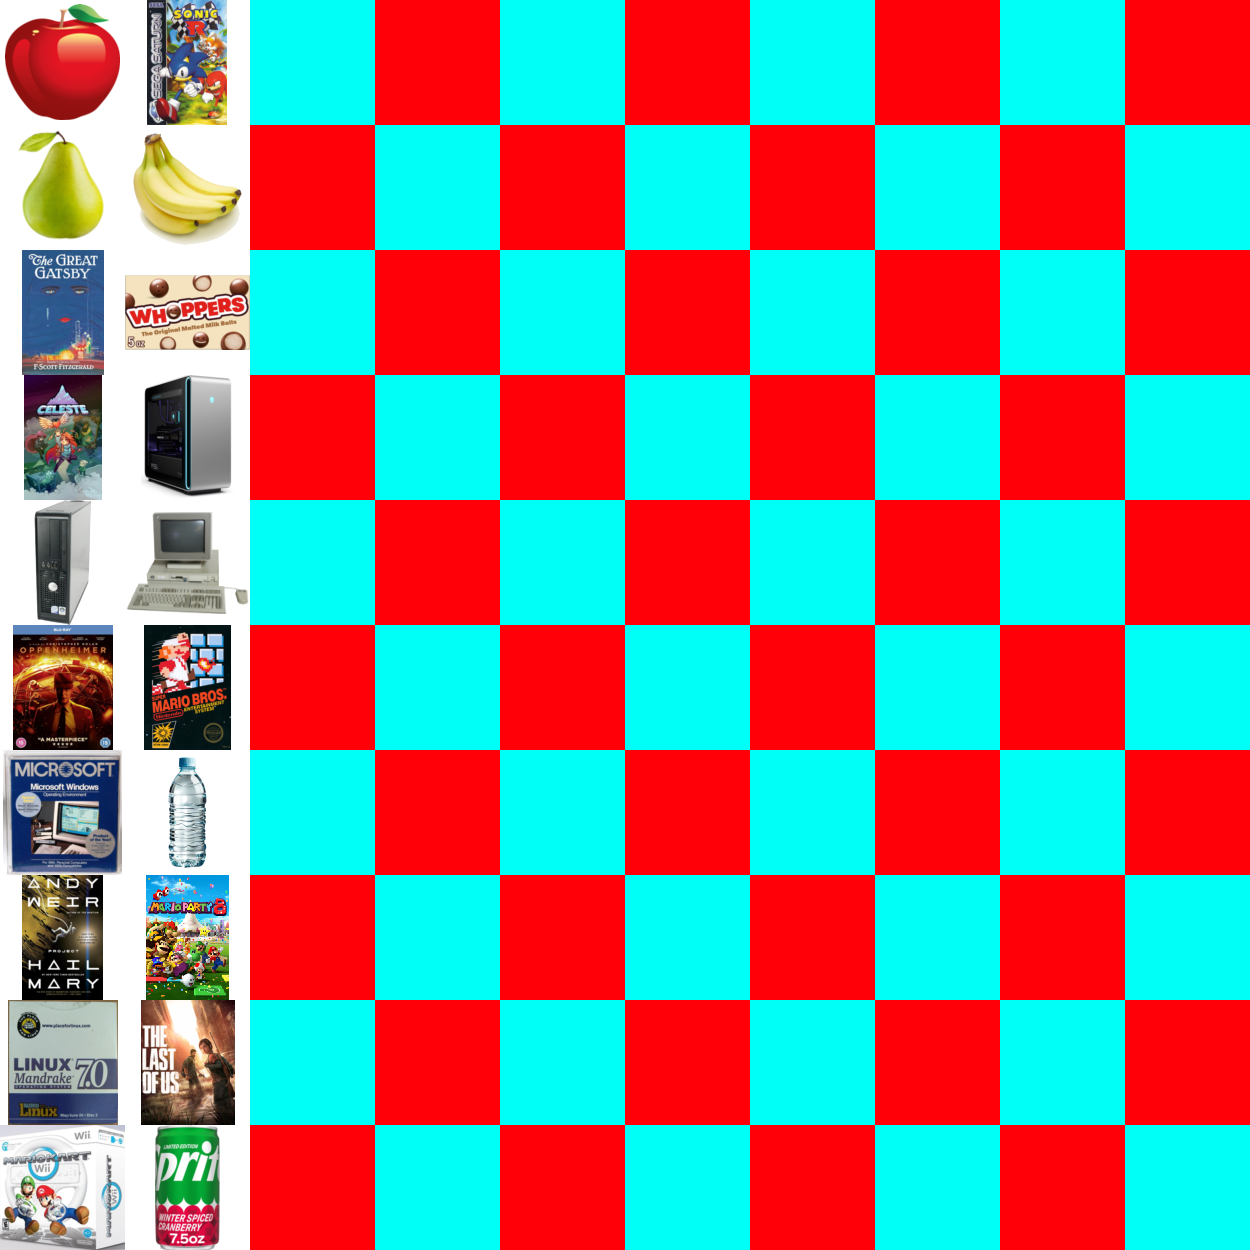
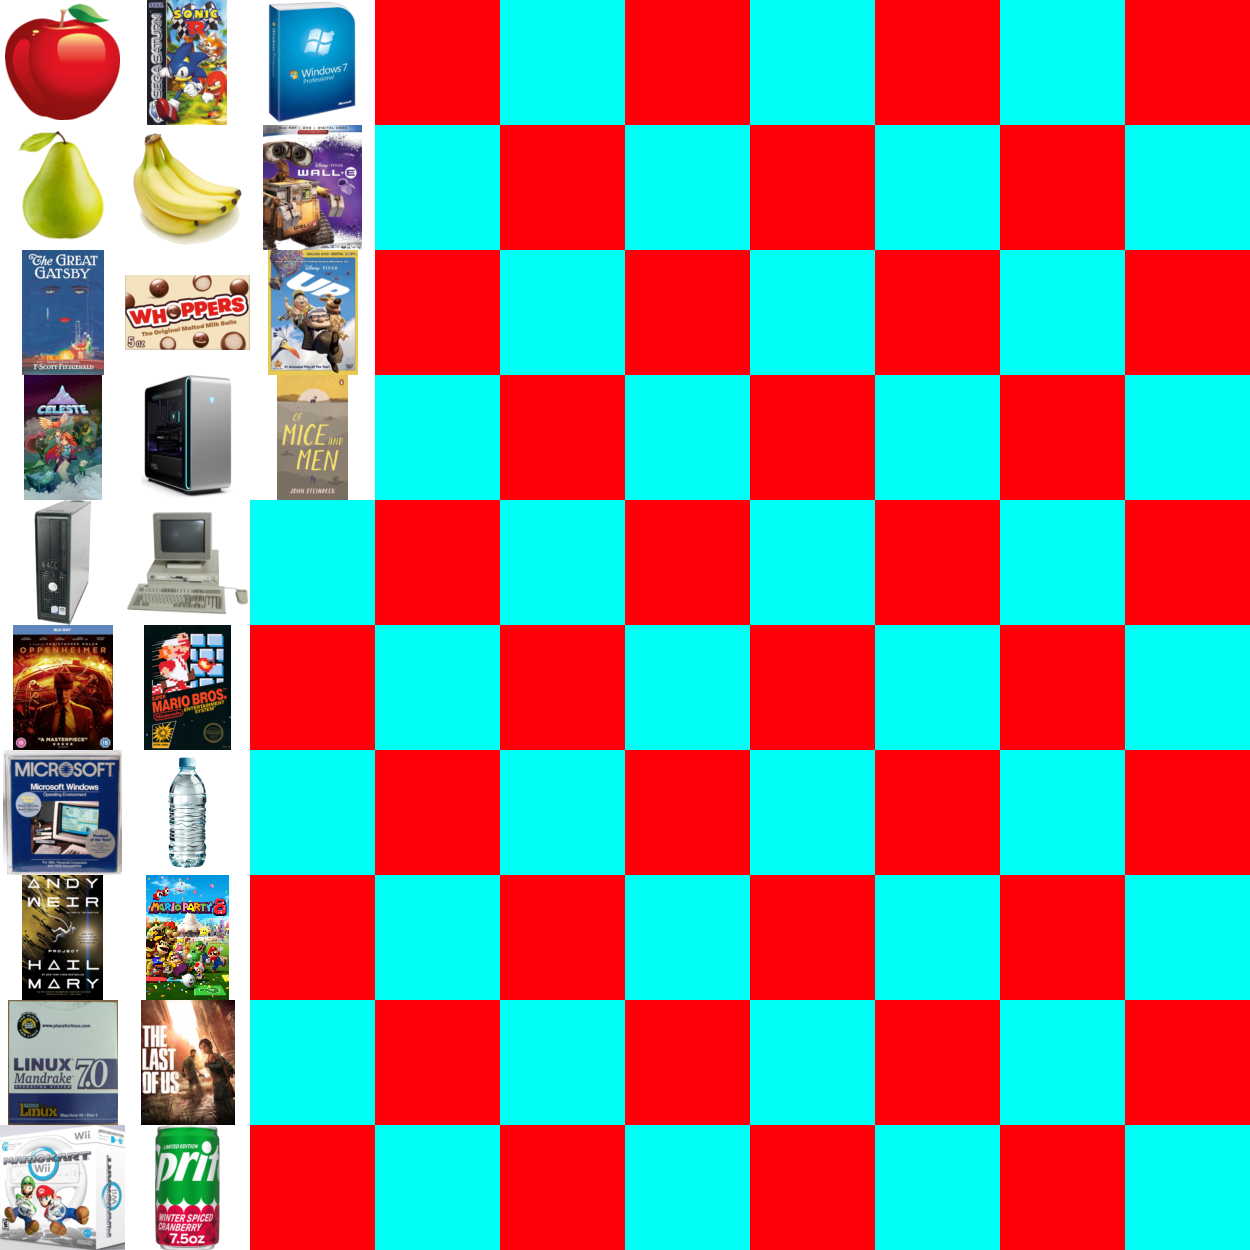
Added even more items & fixed CartManager bug

Changed region(s): [[0.1872, 0.0, 0.312, 0.4056]]

diff --git a/src/frames/ShoppingFrame.java b/src/frames/ShoppingFrame.java
@@ -65,6 +65,8 @@ public class ShoppingFrame extends JFrame {
                         "Nintendo Entertainment System", "Nintendo R&D4", "Nintendo", 1985, 0.00004f, "Physical"),
                 new BookItem(this, 2, "The Great Gatsby", 7.99f, 0.1899f, 3.5f,
                         "F. Scott Fitzgerald", "Fiction", "Paperback", 162, 1925),
+                new BookItem(this, 23, "Of Mice and Men", 10.97f, 0.084f, 4.1f,
+                        "John Steinbeck", "Thriller", "Paperback", 107, 1993),
                 new MovieItem(this, 5, "Oppenheimer", 18.99f, 0.1f, 4.5f,
                         "Christopher Nolan", "Christopher Nolan, Kai Bird, Martin Sherwin", "Cillian Murphy, Emily Blunt, Matt Damon",
                         "R", 2023, 3.f, "Blu-Ray"),
@@ -73,6 +75,12 @@ public class ShoppingFrame extends JFrame {
                         "Microsoft Windows 7", "Dell"),
                 new VideoGameItem(this, 18, "The Last of Us", 59.99f, 0.5f, 4.6f,
                         "Sony PlayStation 3", "Naughty Dog", "Sony Computer Entertainment", 2013, 3.2f, "Physical"),
+                new MovieItem(this, 22, "Up", 27.99f, .04f, 4.8f,
+                        "Pete Docter", "Pete Doctor, Bob Peterson, Tom McCarthy", "Ed Anser & Christopher Plummer",
+                        "PG", 2009, 1.6f, "DVD"),
+                new MovieItem(this, 21, "Wall-E", 19.49f, .01f, 3.9f,
+                        "Andrew Stanton", "Andrew Stanton & Pete Docter", "Ben Burrt & Elissa Knight", "G", 2008,
+                        1.633f, "Blu-Ray"),
                 new FoodItem(this,16,"Water",0.20f,0.51f,4.7f,0,0,
                         0,0,0,0,0,"1 Bottle"),
                 new FoodItem(this, 12, "Whoppers", 1.f, .1f, 4.f, 140,
@@ -80,6 +88,9 @@ public class ShoppingFrame extends JFrame {
                 new SoftwareItem(this, 6, "Windows 1.0", 99.99f, 0.25f, 2.5f,
                         "Microsoft", "Closed source", "Proprietary", "MS-DOS", "x86-32, x86-16", "Operating Environment",
                         "November 1985", "April 1987"),
+                new SoftwareItem(this, 20, "Windows 7 Pro", 129.99f, .2f, 3.9f,
+                        "Microsoft", "Closed source", "Proprietary", "Windows", "IA-32, x86-32, x86-64", "Operating System",
+                        "October 2009", "January 2023"),
         };
 
         cartManager = new CartManager(this);

diff --git a/src/file/CartManager.java b/src/file/CartManager.java
@@ -90,13 +90,23 @@ public class CartManager implements WindowListener {
         try {
             Scanner scanner = new Scanner(cartFile);
 
+            int lastCount = 0;
+
             while (scanner.hasNextLine()) {
                 String[] data = scanner.nextLine().trim().split("=");
 
                 int i = Integer.parseInt(data[0]);
                 byte count = Byte.parseByte(data[1]);
 
+                lastCount = i;
+
                 if (shoppingFrame.getItems()[i].getItemCount() != count) return true;
+            }
+
+            if (lastCount != shoppingFrame.getItems().length - 1) {
+                for (int i = lastCount; i < shoppingFrame.getItems().length; i++) {
+                    if (shoppingFrame.getItems()[i].getItemCount() != 0) return true;
+                }
             }
 
             scanner.close();
